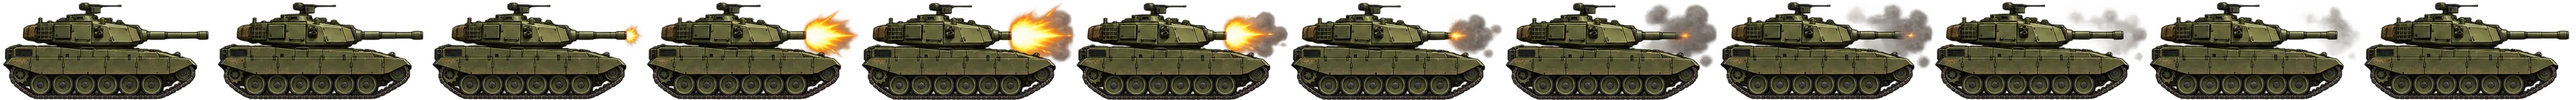
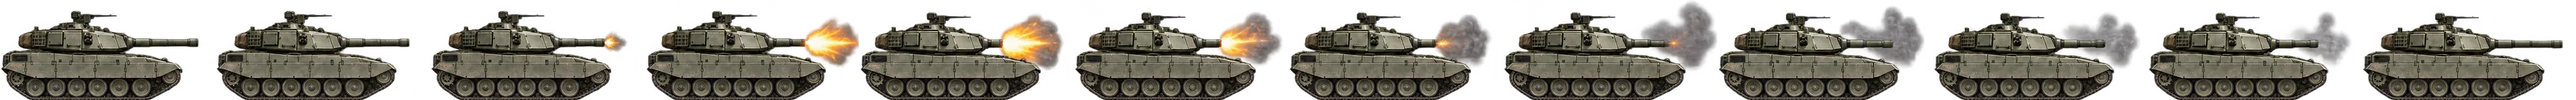
feat: the new tank sprite, each frame aligned on the hull, and a ration supply option for the war simulator

diff --git a/supabase/scripts/simulate-war.js b/supabase/scripts/simulate-war.js
@@ -12,7 +12,9 @@
 // their company and hire, the rest take a job; each bot trains, works once a game day and strikes whenever it has
 // energy, at a human pace. The database decides everything, as for any player.
 //
-// Options: SIM_COUNTRY (ARG), SIM_BOTS (20), SIM_MINUTES (120), SIM_TARGET (6000), SIM_REFERRER (NachoCaldum).
+// Options: SIM_COUNTRY (ARG), SIM_BOTS (20), SIM_MINUTES (120), SIM_TARGET (6000), SIM_REFERRER (NachoCaldum),
+// SIM_FOOD (0): Q1 rations each bot receives at the start, a simulation supply recorded as such in the inventory
+// movements, so automatic food keeps them fighting (10 energy every 5 minutes per ration).
 // Never point it at production: it creates accounts and opens a war.
 
 import { randomUUID } from 'node:crypto';
@@ -30,6 +32,7 @@ const minutes = Number(process.env.SIM_MINUTES ?? 120);
 const target = Number(process.env.SIM_TARGET ?? 6000);
 // Who invited the bots: they sign up as this citizen's referrals.
 const referrer = process.env.SIM_REFERRER ?? 'NachoCaldum';
+const food = Number(process.env.SIM_FOOD ?? 0);
 const until = Date.now() + minutes * 60_000;
 
 const heroes = [
@@ -179,6 +182,16 @@ async function setup() {
       [founder.id],
     );
     founder.founds = companies[index];
+  }
+  if (food > 0) {
+    const supply = `simulation:${new Date().toISOString()}`;
+    for (const bot of bots) {
+      await owner(
+        `select game.put_goods(game.holder_for_citizen($1), 'food_q1', $2, $3, 'simulation_supply', $4)`,
+        [bot.id, country, food, `${supply}:${bot.id}`],
+      );
+    }
+    log(`supplied ${food} rations to each bot`);
   }
   return { bots, warId: Number(war.id) };
 }

diff --git a/apps/web/src/features/war/battlefield.ts b/apps/web/src/features/war/battlefield.ts
@@ -17,7 +17,7 @@ export const SCENE = { width: 640, height: 320 } as const;
 export const TANK_FRAME = { width: 288, height: 135, count: 12 } as const;
 
 /** The barrel's tip in a frame, as a share of its width and height, facing right. */
-const BARREL_TIP = [372 / 384, 63.5 / 180] as const;
+const BARREL_TIP = [354 / 384, 76.5 / 180] as const;
 
 /** How long the firing frames last. */
 export const FIRE_MS = 1200;

diff --git a/apps/web/src/assets/war/README.md b/apps/web/src/assets/war/README.md
@@ -4,5 +4,5 @@
 | ----------------------------------------------------------------------------------------- | ---------------------------------------------------------------------------------------------------- | ----------------------------- |
 | `battlefield-snow.webp`                                                                   | Provided by the owner (a snowy, ruined street), resized to 1280 × 720                                | The owner's                   |
 | `snow.webp`                                                                               | Provided by the owner (falling snow); two crops, one doubled for nearer flakes, in a 1600 × 800 tile | The owner's                   |
-| `tank-fire.webp`                                                                          | Provided by the owner (a 4 × 3 sheet of a tank firing), cut into a strip of 12 frames of 288 × 135   | The owner's                   |
+| `tank-fire.webp`                                                                          | Provided by the owner (a 4 × 3 sheet of a tank firing, not on an even grid): each frame aligned on the hull and cleaned of its neighbours, in a strip of 12 frames of 288 × 135   | The owner's                   |
 | `bulletFly2.png`, `explosion1.png`, `explosion4.png`, `explosion9.png`, `explosion12.png` | Kenney, «Tanks» pack, [opengameart.org/node/70434](https://opengameart.org/node/70434)               | CC0, see `LICENSE-kenney.txt` |
